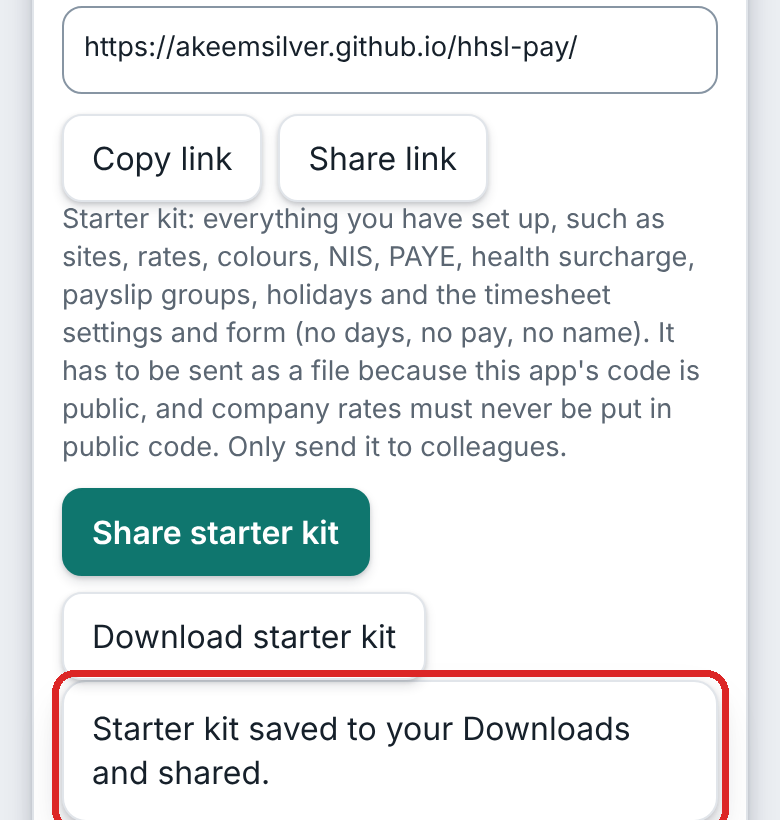
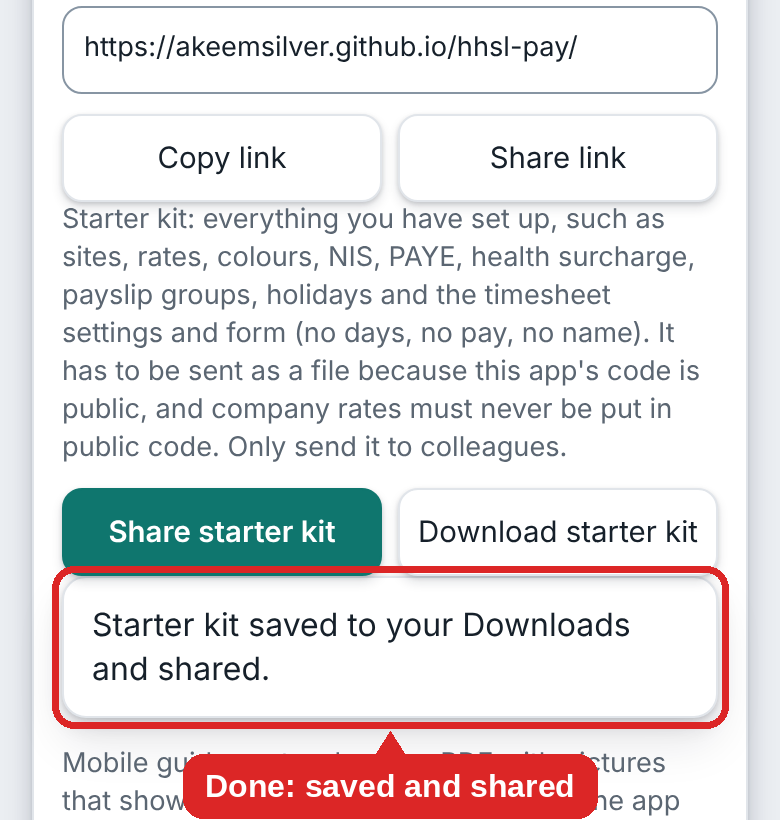
Settings, Share this app: Download guide next to Share guide (asks first, fetches only after yes); Copy / Share link, Share / Download starter kit and Share / Download guide are equal-width pairs; guide pictures re-taken
Claude-Session: https://claude.ai/code/session_015B217MJCLoYGM2HCZFLF5v

diff --git a/src/screens/SettingsHub.tsx b/src/screens/SettingsHub.tsx
@@ -38,6 +38,7 @@ export function SettingsHub() {
   const [askDownload, setAskDownload] = useState(false);
   const [askShare, setAskShare] = useState(false);
   const [askGuide, setAskGuide] = useState(false);
+  const [askGuideDownload, setAskGuideDownload] = useState(false);
   // The guide is only downloaded when someone says yes to sharing it (never ahead of time).
   const [guideMessage, setGuideMessage] = useState<string | null>(null);
   const shareGuidePdf = async () => {
@@ -49,8 +50,18 @@ export function SettingsHub() {
     } catch (e) {
       const name = (e as DOMException)?.name;
       if (name === "AbortError") setGuideMessage(null);
-      else if (name === "NotAllowedError") setGuideMessage("The guide is ready. Tap Share guide (PDF) again to send it.");
+      else if (name === "NotAllowedError") setGuideMessage("The guide is ready. Tap Share guide again to send it.");
       else setGuideMessage("The guide could not be loaded. It needs a signal; try again in a moment.");
+    }
+  };
+  // Saved straight to Downloads, after a yes. The guide is fetched only now, never ahead of time.
+  const downloadGuidePdf = async () => {
+    try {
+      setGuideMessage("Getting the guide…");
+      download(withTime(GUIDE_FILE), await loadGuide(), "application/pdf");
+      setGuideMessage("Guide saved to your Downloads.");
+    } catch {
+      setGuideMessage("The guide could not be loaded. It needs a signal; try again in a moment.");
     }
   };
   const [kitMessage, setKitMessage] = useState<string | null>(null);
@@ -126,19 +137,20 @@ export function SettingsHub() {
         <label>App link
           <input readOnly aria-label="App link" value={link} onFocus={(e) => e.currentTarget.select()} />
         </label>
-        <div className="row">
+        <div className="row pair">
           <button onClick={copyLink}>{copied ? "Copied ✓" : "Copy link"}</button>
           <button onClick={() => void shareLink()}>Share link</button>
         </div>
         <p className="muted small">Starter kit: everything you have set up, such as sites, rates, colours, NIS, PAYE, health surcharge, payslip groups, holidays and the timesheet settings and form (no days, no pay, no name). It has to be sent as a file because this app's code is public, and company rates must never be put in public code. Only send it to colleagues.</p>
-        <div className="row">
+        <div className="row pair">
           <button className="primary" disabled={sitesCount === 0} onClick={() => setAskShare(true)}>Share starter kit</button>
           <button disabled={sitesCount === 0} onClick={() => setAskDownload(true)}>Download starter kit</button>
         </div>
         {kitMessage && <p className="notice" role="status">{kitMessage}</p>}
         <p className="muted small">Mobile guide: a step-by-step PDF with pictures that shows your colleague how to install the app and load the starter kit. Send it too.</p>
-        <div className="row">
-          <button onClick={() => setAskGuide(true)}>Share guide (PDF)</button>
+        <div className="row pair">
+          <button className="primary" onClick={() => setAskGuide(true)}>Share guide</button>
+          <button onClick={() => setAskGuideDownload(true)}>Download guide</button>
         </div>
         {guideMessage && <p className="notice" role="status">{guideMessage}</p>}
         {sitesCount === 0 && <p className="muted small">Add your sites first, then the starter kit is ready to share.</p>}
@@ -282,6 +294,15 @@ export function SettingsHub() {
           confirmLabel="Yes, share" cancelLabel="Cancel" safe
           onCancel={() => setAskGuide(false)}
           onConfirm={() => { setAskGuide(false); void shareGuidePdf(); }}
+        />
+      )}
+      {askGuideDownload && (
+        <ConfirmDialog
+          title="Download the guide?"
+          message="The guide (PDF, about 2.7 MB) is saved to your Downloads."
+          confirmLabel="Yes, download" cancelLabel="Cancel" safe
+          onCancel={() => setAskGuideDownload(false)}
+          onConfirm={() => { setAskGuideDownload(false); void downloadGuidePdf(); }}
         />
       )}
       {askDownload && (

diff --git a/src/styles.css b/src/styles.css
@@ -1068,3 +1068,8 @@ button.close-site { justify-content: center; text-align: center; color: var(--ac
 .source-choices button strong { font-size: 1.02rem; }
 .source-choices button span { font-size: 0.84rem; font-weight: 400; opacity: 0.9; }
 .source-choices ol { margin: 0; padding-left: 1.2rem; display: grid; gap: 4px; }
+
+/* Share this app: each pair of buttons splits the width equally, so Copy / Share link, Share / Download starter kit and Share / Download guide line up. */
+.share-app .row.pair { display: grid; grid-template-columns: 1fr 1fr; gap: 8px; }
+.share-app .row.pair button { width: 100%; }
+.share-app .row.pair button { font-size: 0.92rem; padding-inline: 8px; }

diff --git a/guide/build_guide.py b/guide/build_guide.py
@@ -231,7 +231,7 @@ s.append(steps([
  ("<b>Send the link.</b> Tap <b>Share link</b>, pick <b>WhatsApp</b> and the person.", None),
  ("<b>Send the starter kit.</b> Tap <b>Share starter kit</b>, then <b>Yes, download and share</b>. The kit is sent as a <b>PDF</b> (HHSL-starter-kit-rates.pdf), because WhatsApp lets your colleague download a PDF but only shows a text file as text. The time is added to the saved file's name so it never clashes with an earlier copy.", Bs("b-share-ask"), 50),
  ("The share menu opens. Pick <b>WhatsApp</b> (or Gmail) and the same person, and send the file.", Bs("b-share-after"), 50),
- ("<b>Send this guide.</b> Tap <b>Share guide (PDF)</b> and pick the same person. The guide is built into the app, so it is always the latest one. It needs a signal to load.", None)]))
+ ("<b>Send this guide.</b> Tap <b>Share guide</b>, then <b>Yes, share</b>, and pick the same person. (<b>Download guide</b>, next to it, saves the guide to your Downloads instead.) The guide is built into the app, so it is always the latest one. It needs a signal the first time, because the app only downloads the guide after you say yes.", None)]))
 s.append(Paragraph(f"This guide is also here, if you ever need to download it again: {lk(LINK + GUIDE_FILE, GUIDE_FILE)}", small))
 s.append(Paragraph(f"Back to the top: {go('p1', 'Part 1')} · {go('p2', 'Part 2')} · {go('p3', 'Part 3')} · {go('p4', 'Part 4')} · {go('p5', 'Part 5')} · {go('p6', 'Part 6')} · {go('p7', 'Part 7')}", small))
 doc.build(s)
